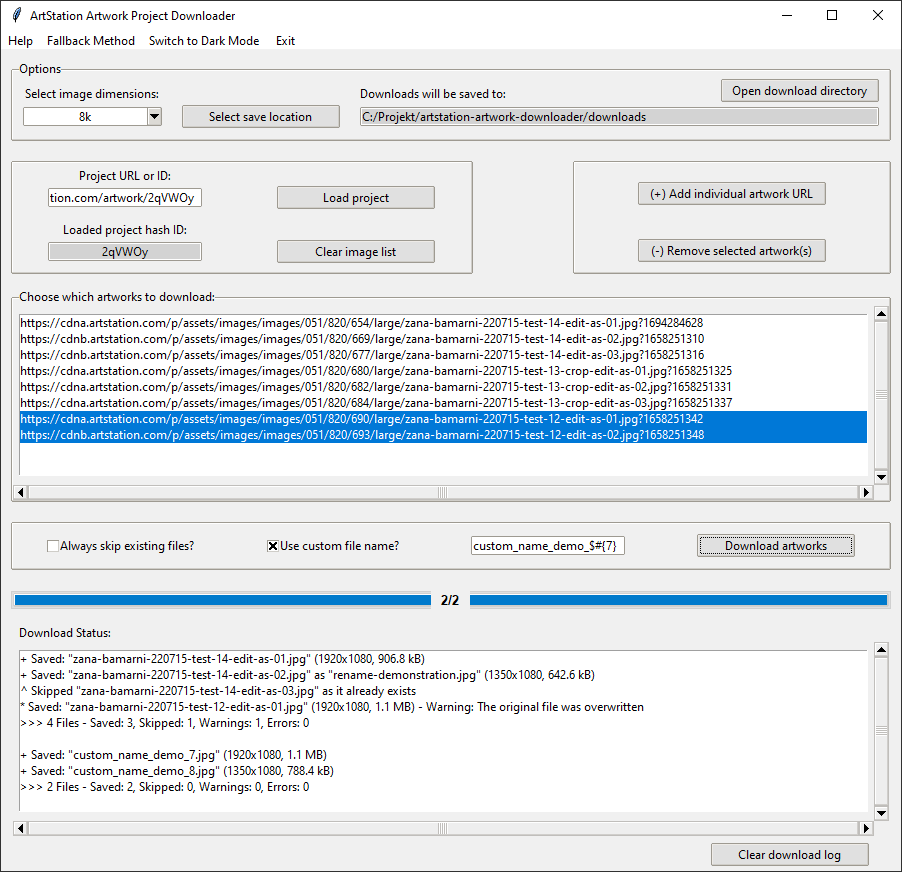
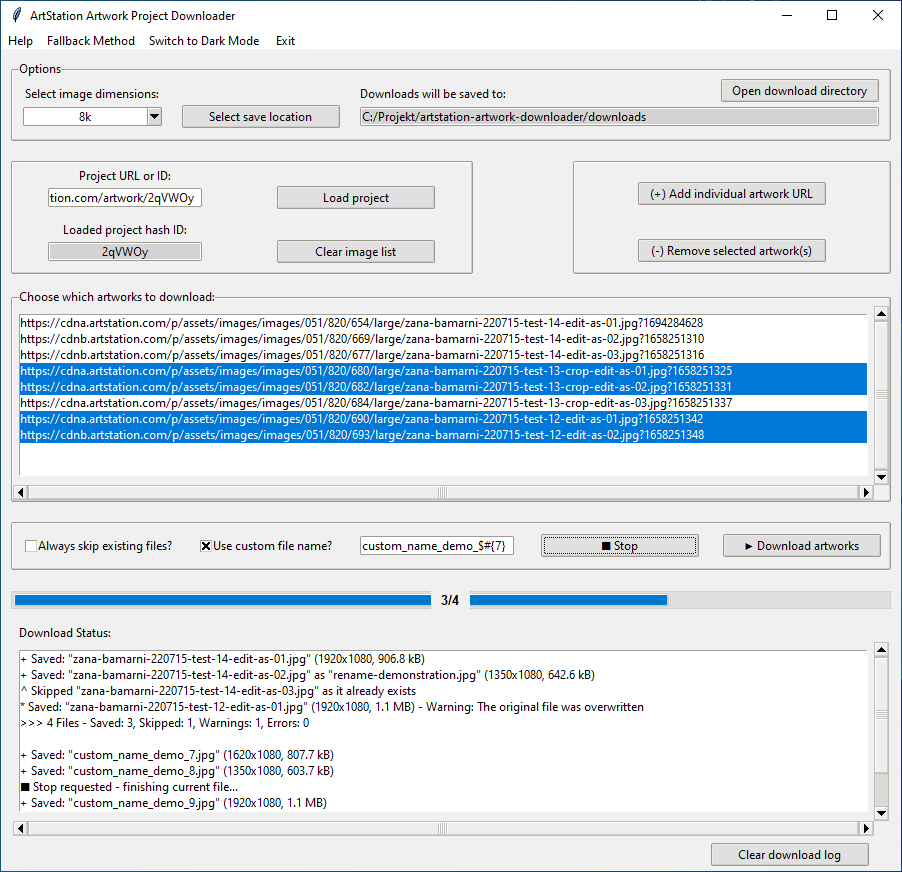
Add stop button to cancel active batch
Add a threading.Event checked at the top of each iteration in `_run_default` and `_run_custom`. A new Stop button (disabled until a download is active) sets the event; the worker logs a cancellation notice and exits via its finally block.

diff --git a/src/artstation_artwork_downloader/main.py b/src/artstation_artwork_downloader/main.py
@@ -1,6 +1,6 @@
 # Copyright (c) 2025-2026 Jérémy Rotzetter
 
-__version__ = "2.4.4"
+__version__ = "2.5.0"
 
 import json
 import logging
@@ -36,6 +36,7 @@ class ArtStationArtworkDownloader(tk.Tk):
         # print(ttk.Style().lookup("TButton", "font"))
         self._gui_queue = queue.Queue()
         self._resp_queue = queue.Queue()  # main -> worker responses
+        self._cancel_event = threading.Event()
         self._polling = False
 
         self.style.theme_create("light", parent="clam", settings=light_theme)
@@ -47,7 +48,6 @@ class ArtStationArtworkDownloader(tk.Tk):
         ###/// GLOBAL VARIABLES \\\###
         self.SAVE_PATH = tk.StringVar()
         self.LOADED_JSON = tk.StringVar()
-        self.JSON = tk.StringVar()
         self.CUSTOM_NAME = tk.BooleanVar()
         self.PROGRESS = tk.StringVar()
         BUTTON_WIDTH = 25
@@ -296,9 +296,17 @@ class ArtStationArtworkDownloader(tk.Tk):
             ),
         )
 
+        self.stop_btn = ttk.Button(
+            master=self.run_frm,
+            text="\u25a0 Stop",
+            width=BUTTON_WIDTH,
+            command=self._stop_download,
+            state="disabled",
+        )
+
         self.run_btn = ttk.Button(
             master=self.run_frm,
-            text="Download artworks",
+            text="\u25b6 Download artworks",
             width=BUTTON_WIDTH,
             command=self._download_images,
         )
@@ -310,7 +318,8 @@ class ArtStationArtworkDownloader(tk.Tk):
         self.skip_check.grid(row=0, column=0, padx=10, pady=10)
         self.custom_entry.grid(row=0, column=2, padx=10, pady=10)
         self.custom_name_check.grid(row=0, column=1, padx=10, pady=10)
-        self.run_btn.grid(row=0, column=3, padx=10, pady=10)
+        self.stop_btn.grid(row=0, column=3, padx=10, pady=10)
+        self.run_btn.grid(row=0, column=4, padx=10, pady=10)
 
         ###/// PROGRESSBAR FRAME \\\
         self.progbar_frm = ttk.Frame(master=self.main_frm)
@@ -681,10 +690,23 @@ class ArtStationArtworkDownloader(tk.Tk):
         """Enable/disable buttons based on download state."""
         state = "disabled" if active else "normal"
         self.run_btn.config(state=state)
+        self.stop_btn.config(state="normal" if active else "disabled")
         self.load_json_url_btn.config(state=state)
         self.clear_json_btn.config(state=state)
         self.add_artwork.config(state=state)
         self.remove_artwork.config(state=state)
+
+    def _stop_download(self):
+        """Signal the worker to stop after the current file."""
+        if self._cancel_event.is_set():
+            return
+        self._cancel_event.set()
+        self._log_append("\u25a0 Stop requested - finishing current file...")
+
+    def _log_append(self, msg: str):
+        """Append a line to the log widget. Must be called from the main thread."""
+        self.log_lb.insert(tk.END, msg)
+        self.log_lb.see(tk.END)
 
     def update_progress(self, index: int, total: int):
         """
@@ -728,6 +750,7 @@ class ArtStationArtworkDownloader(tk.Tk):
         if self._polling:
             return
 
+        self._cancel_event.clear()
         self._set_downloading(True)
 
         worker = DownloadWorker(
@@ -739,6 +762,7 @@ class ArtStationArtworkDownloader(tk.Tk):
             skipvar=self.SKIP_EXISTING,
             overwritevar=self.OVERWRITE,
             parent=self,
+            cancel_event=self._cancel_event,
             on_done=lambda: self._gui_queue.put(("done",)),
         )
 

diff --git a/src/artstation_artwork_downloader/downloader.py b/src/artstation_artwork_downloader/downloader.py
@@ -157,6 +157,7 @@ class DownloadWorker:
         skipvar,
         overwritevar,
         parent,
+        cancel_event,
         on_done,
     ):
         """
@@ -173,6 +174,9 @@ class DownloadWorker:
         :type overwritevar: tk.BooleanVar
         :param parent: tk widget (root window), passed to dialogs
         :type parent: tk.Misc
+        :param cancel_event: threading.Event checked at the top of each iteration;
+                             when set, the worker stops after the current file
+        :type cancel_event: threading.Event
         :param on_done: Callable invoked in the finally block of run() to signal
                         the main thread that the batch has finished
         :type on_done: Callable[[], None]
@@ -183,6 +187,7 @@ class DownloadWorker:
         self._skipvar = skipvar
         self._overwritevar = overwritevar
         self._parent = parent
+        self._cancel = cancel_event
         self._on_done = on_done
 
         self.saved = 0
@@ -258,6 +263,13 @@ class DownloadWorker:
         """
         with requests.Session() as sess:
             for index, image in enumerate(images, start=1):
+                if self._cancel.is_set():
+                    remaining = total - index + 1
+                    self.skips += remaining
+                    self._log(
+                        f"\u25a0 {remaining} file(s) remaining in queue - skipped"
+                    )
+                    return
                 filename = get_filename(image)
                 image_url = determine_img_dimension(
                     image, img_option, filename, self._ask_original
@@ -294,6 +306,13 @@ class DownloadWorker:
 
         with requests.Session() as sess:
             for index, image in enumerate(images, start=1):
+                if self._cancel.is_set():
+                    remaining = total - index + 1
+                    self.skips += remaining
+                    self._log(
+                        f"\u25a0 {remaining} file(s) remaining in queue - skipped"
+                    )
+                    return
                 filename = custom_name
                 if "$N" in filename:
                     filename = filename.replace("$N", get_filename(image))
